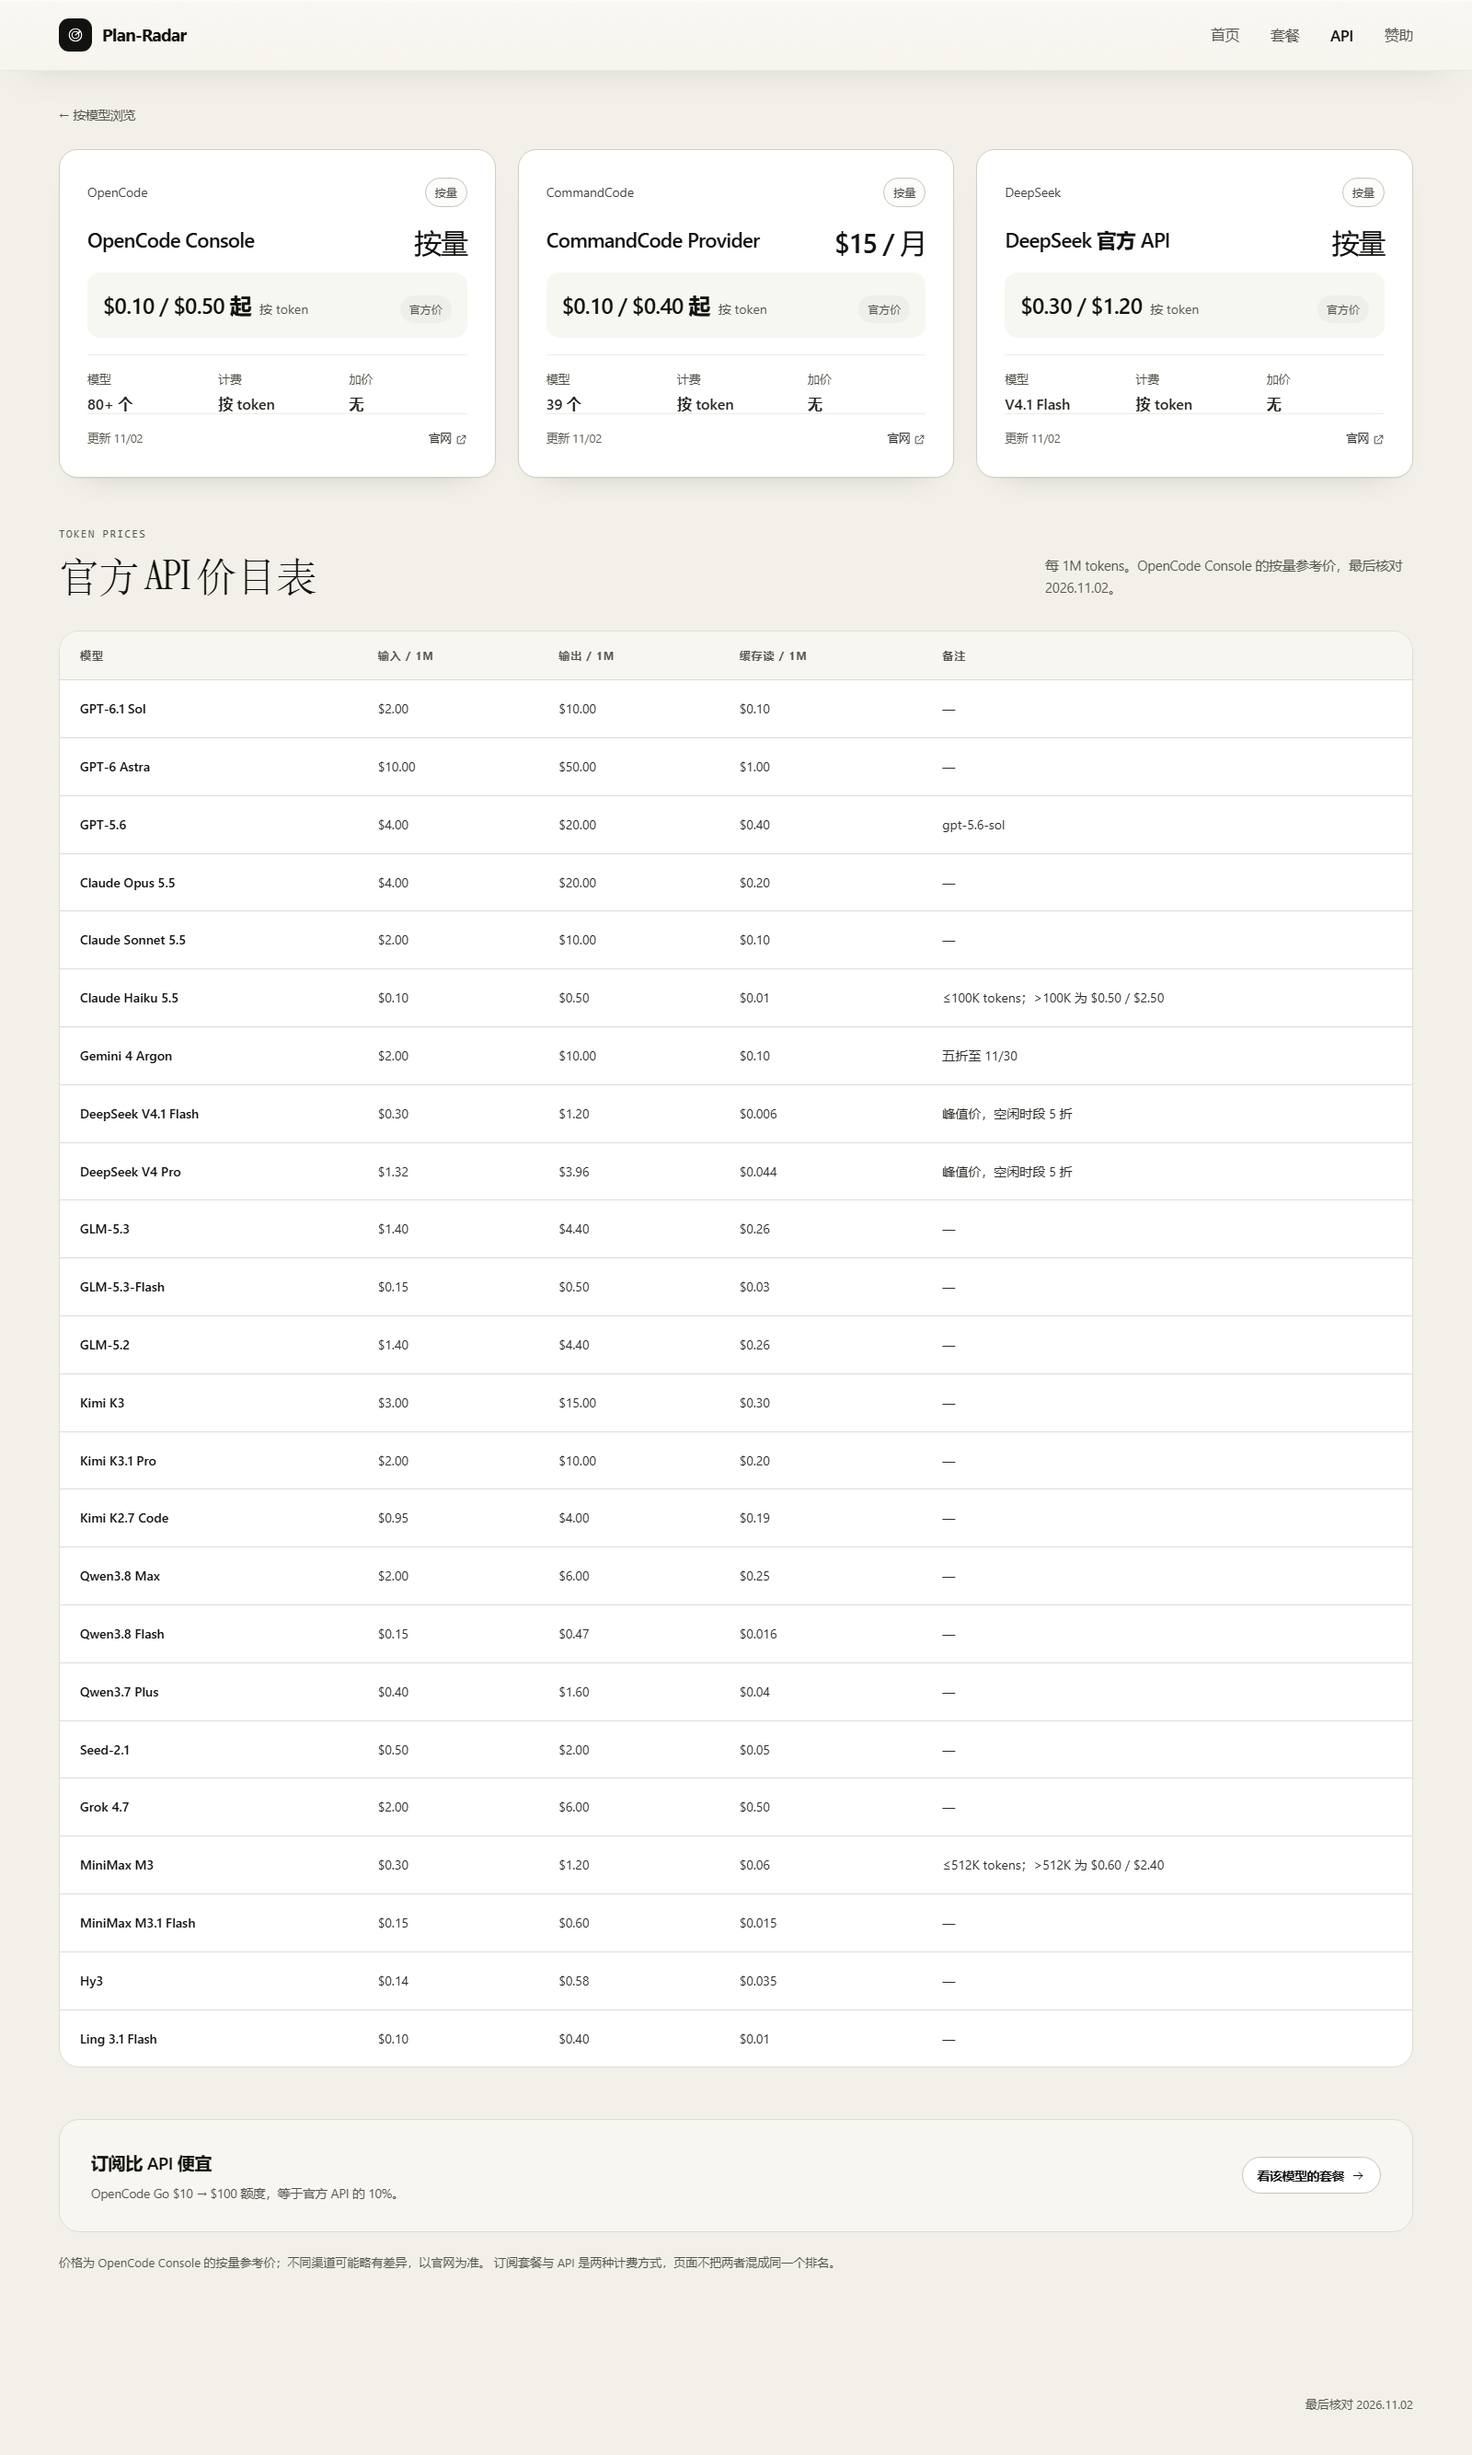
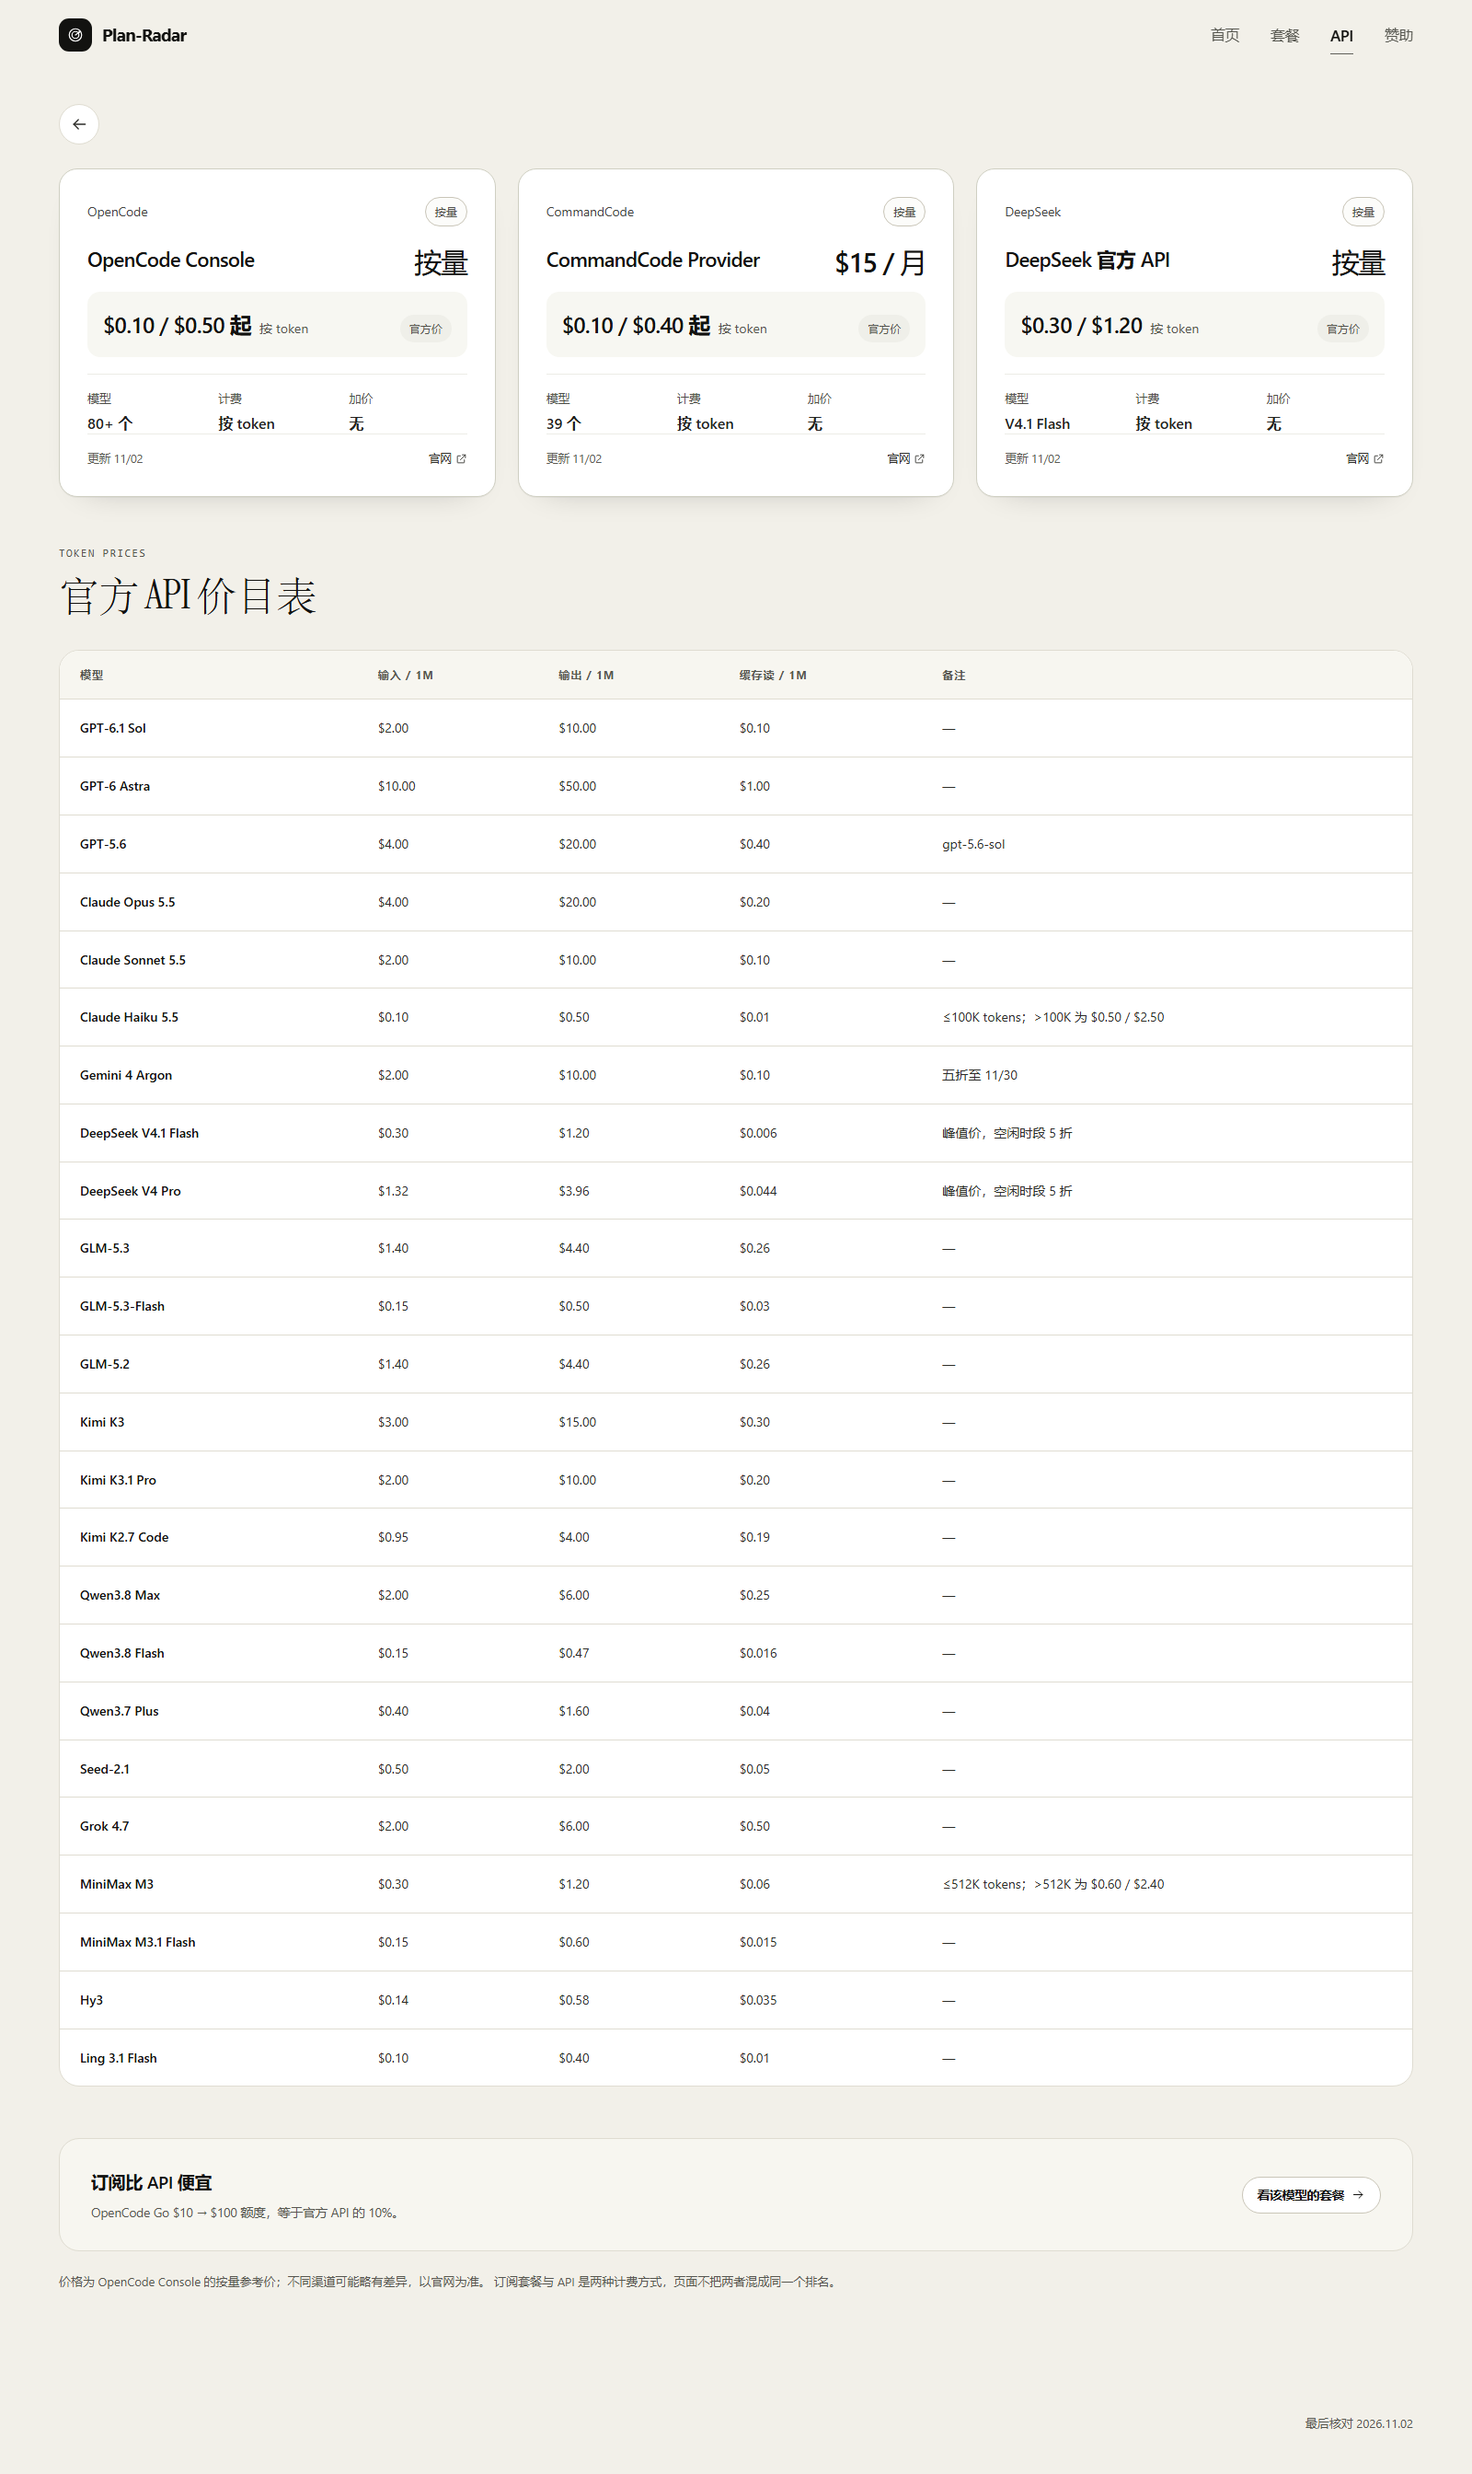
fix: align API overview back button and drop subtitle

diff --git a/app/api/all/page.tsx b/app/api/all/page.tsx
@@ -5,9 +5,10 @@ import { apiChannels, tokenPrices } from "@/lib/api";
 export default function AllApiPage() {
   return (
     <div className="wrap">
+      <h1 className="visually-hidden">全部 API</h1>
       <div className="detail-top">
-        <a className="link-arrow" href="/api/">
-          ← 按模型浏览
+        <a className="back-arrow" href="/api/" aria-label="返回 API 列表">
+          <Icon name="arrow-left" />
         </a>
       </div>
 
@@ -22,7 +23,6 @@ export default function AllApiPage() {
           <div className="eyebrow">Token prices</div>
           <h2 className="section-title">官方 API 价目表</h2>
         </div>
-        <p>每 1M tokens。OpenCode Console 的按量参考价，最后核对 2026.11.02。</p>
       </div>
 
       <div className="table-wrap">
